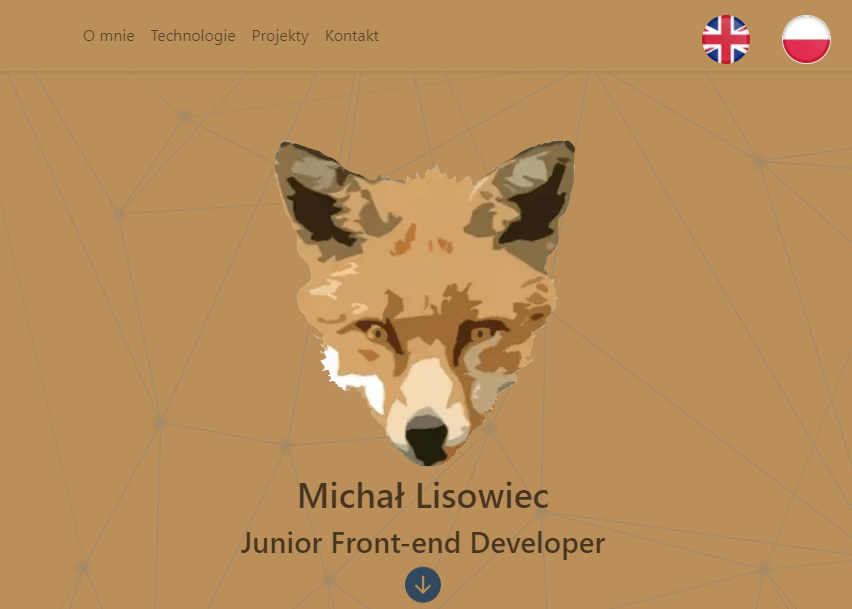
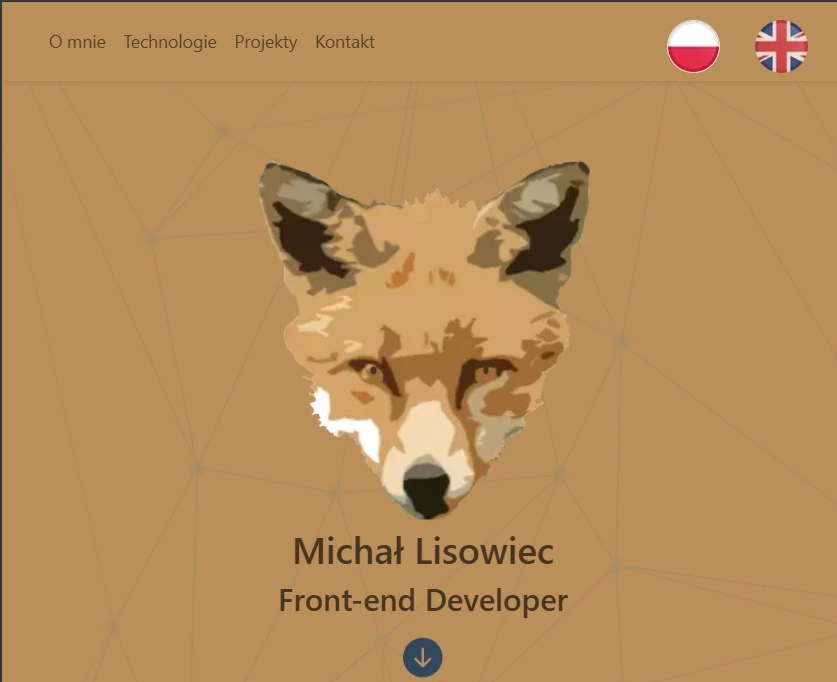
Update

Changed region(s): [[0.2796, 0.2184, 0.7145, 0.9984], [0.0, 0.0, 1.0, 0.1248]]

diff --git a/src/sections/Projects.jsx b/src/sections/Projects.jsx
@@ -37,7 +37,7 @@ function Projects() {
       image: kancelaria,
       description: lang.projects.kancelaria.description,
       stack: lang.projects.kancelaria.stack,
-      live: 'https://kancelaria-frontend.vercel.app',
+      live: 'https://kancelaria-lime.vercel.app',
       github: 'https://github.com/ManuLisek/kancelaria-frontend',
     },
   ];
@@ -46,9 +46,10 @@ function Projects() {
       <div key={uuid()} className="container px-4 text-secondary">
         <div className="row gx-0 mb-4 mb-lg-5 align-items-center">
           <figure
-            className={`figure col-lg-6 hover-img bg-black overflow-hidden position-relative rounded-3 ${
-              i % 2 !== 0 ? 'order-lg-2' : ''
-            }`}
+            // eslint-disable-next-line prettier/prettier
+            className={`figure col-lg-6 hover-img bg-black overflow-hidden position-relative rounded-3 ${i % 2 !== 0 ? 'order-lg-2' : ''
+              // eslint-disable-next-line prettier/prettier
+              }`}
           >
             <img
               className="img-fluid"
